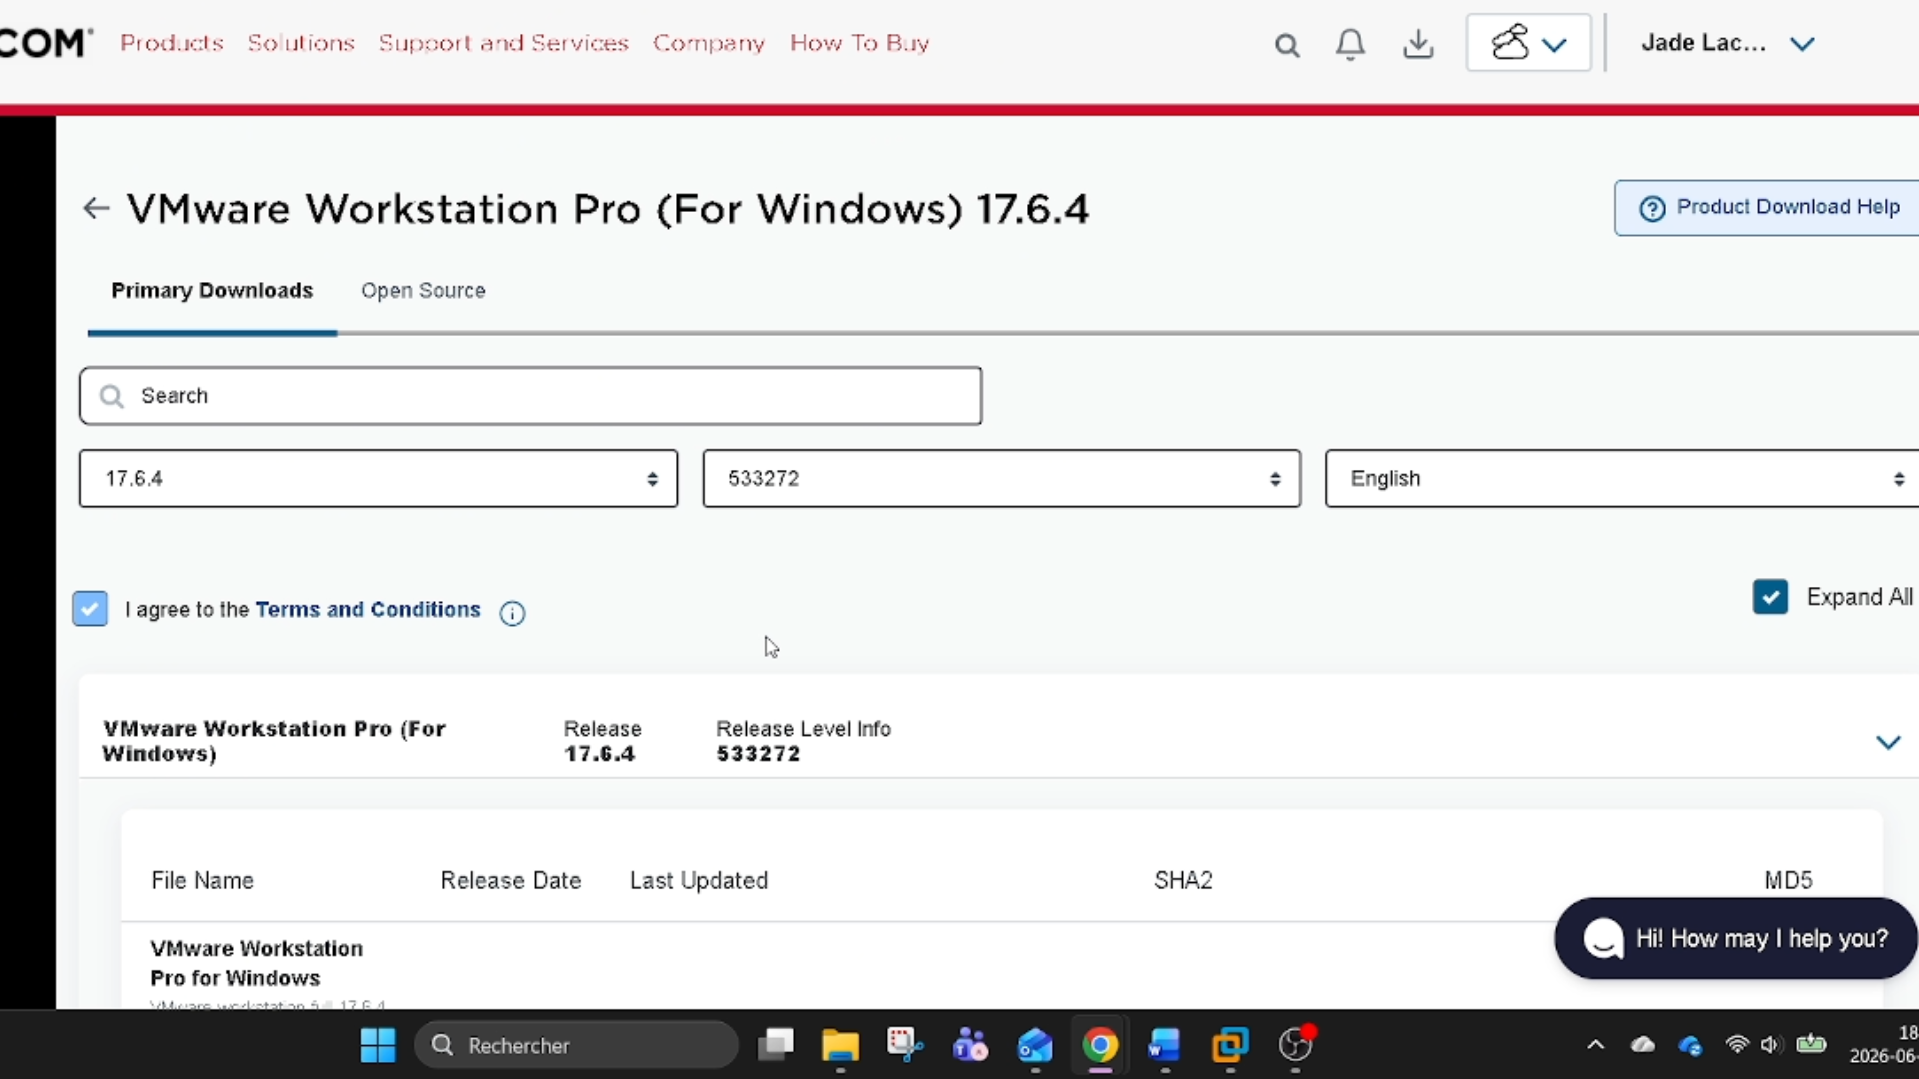
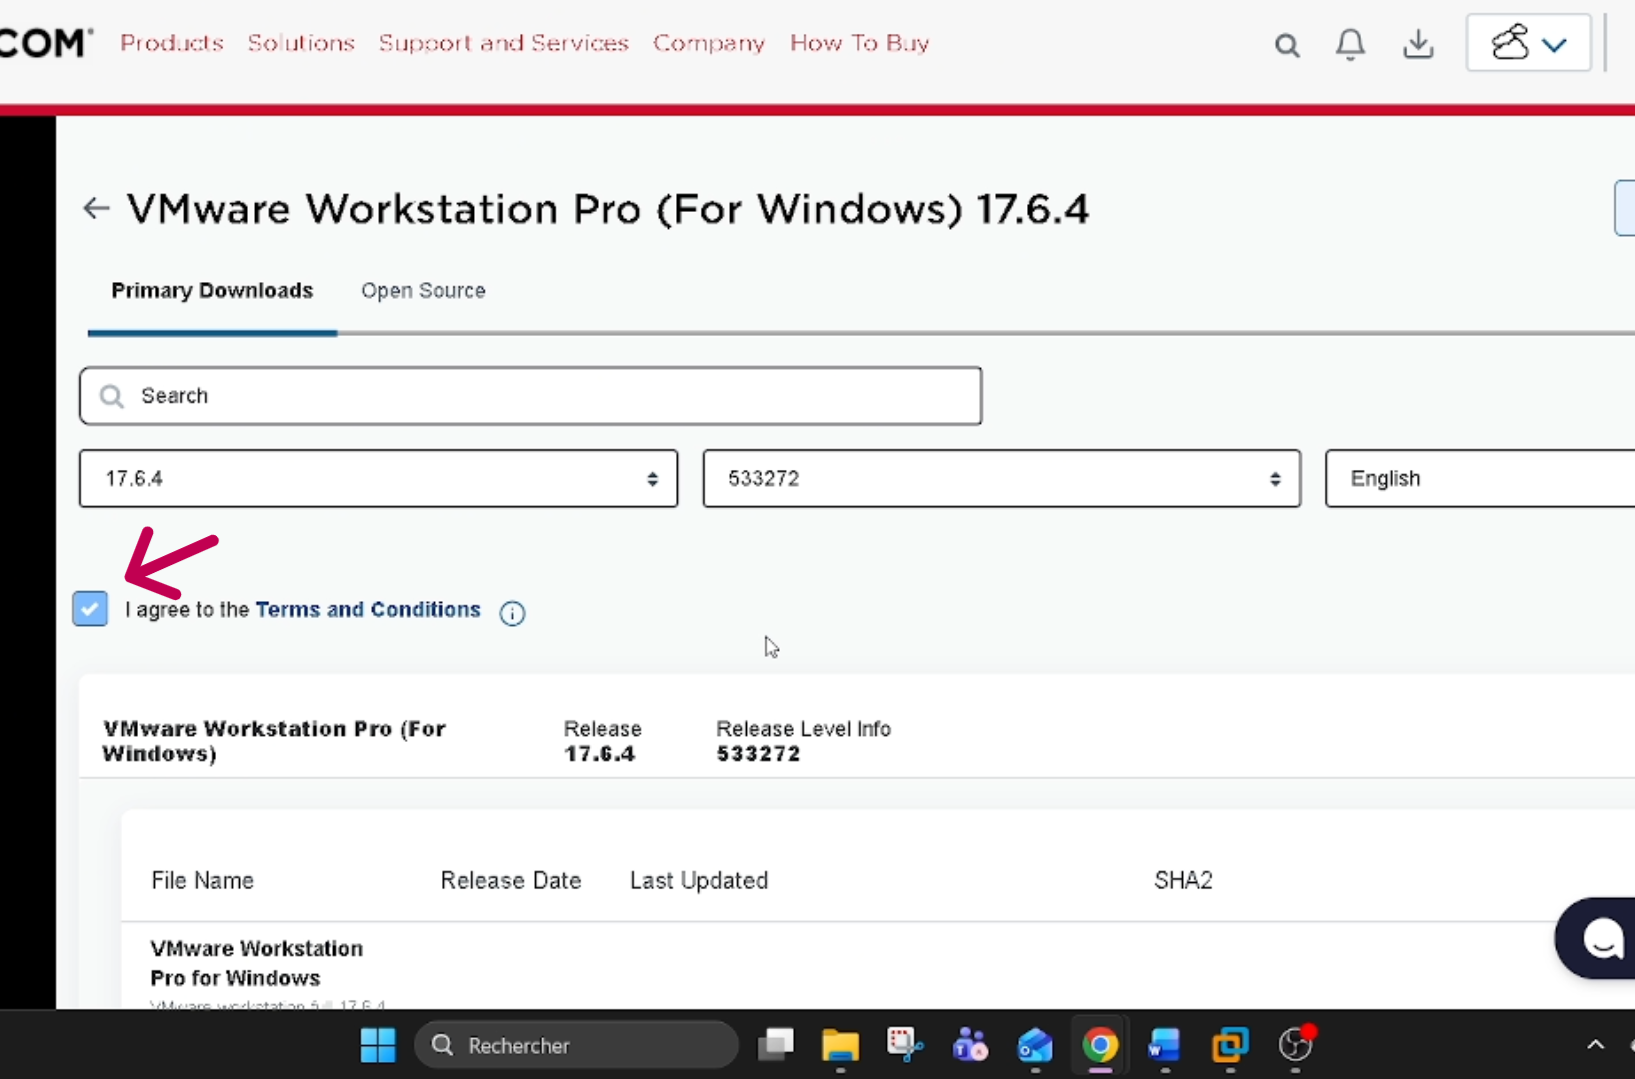
Changement photos

diff --git a/README.md b/README.md
@@ -4,7 +4,7 @@ Ce tutoriel explique comment télécharger, configurer et installer **VMware Wor
 ---
 ## Inscription sur le portail Broadcom
 
-1. Ouvrez votre navigateur et rendez-vous sur le Broadcom Support Portal.
+1. Ouvrez votre navigateur et rendez-vous sur le Broadcom Support Portal. https://support.broadcom.com/
 ![image1](images/01-site-broadcom.png)
 
 2. En haut à droite de la page, cliquez sur le bouton Register pour lancer l'inscription.
